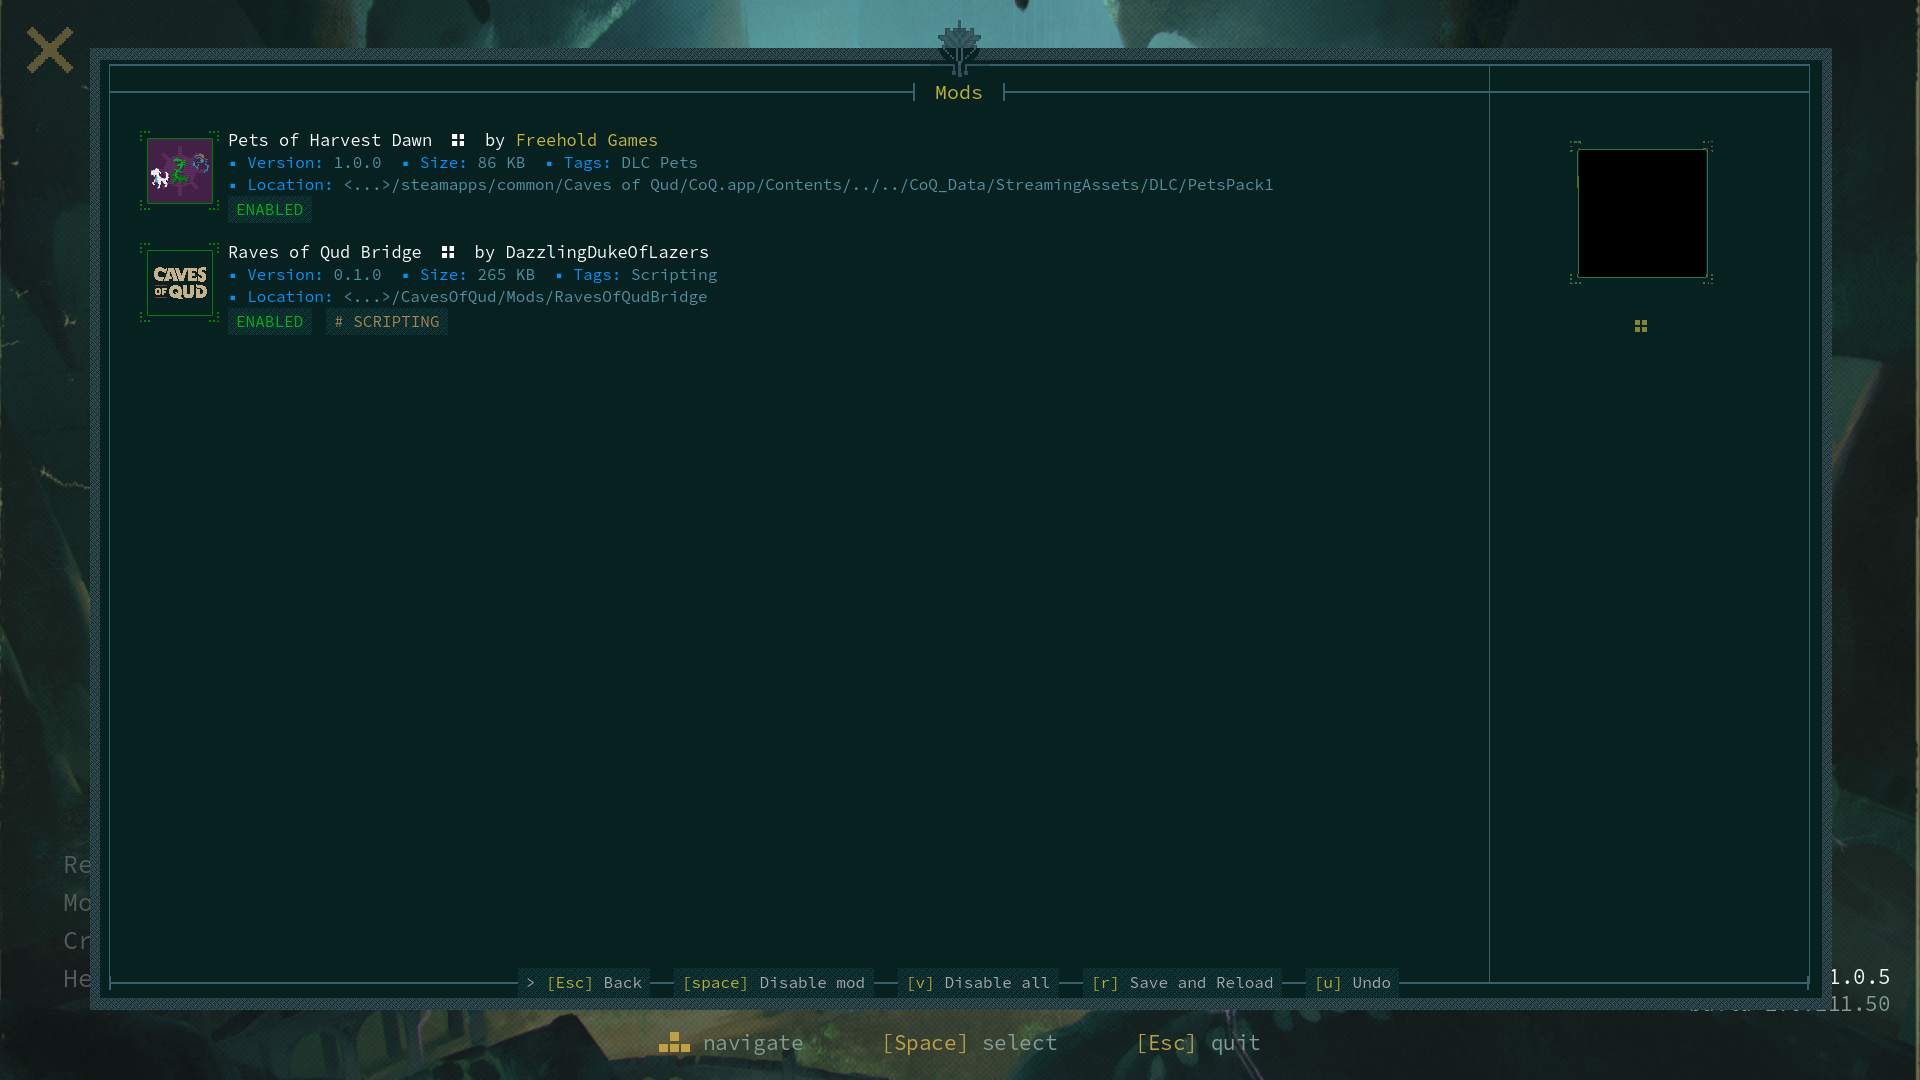
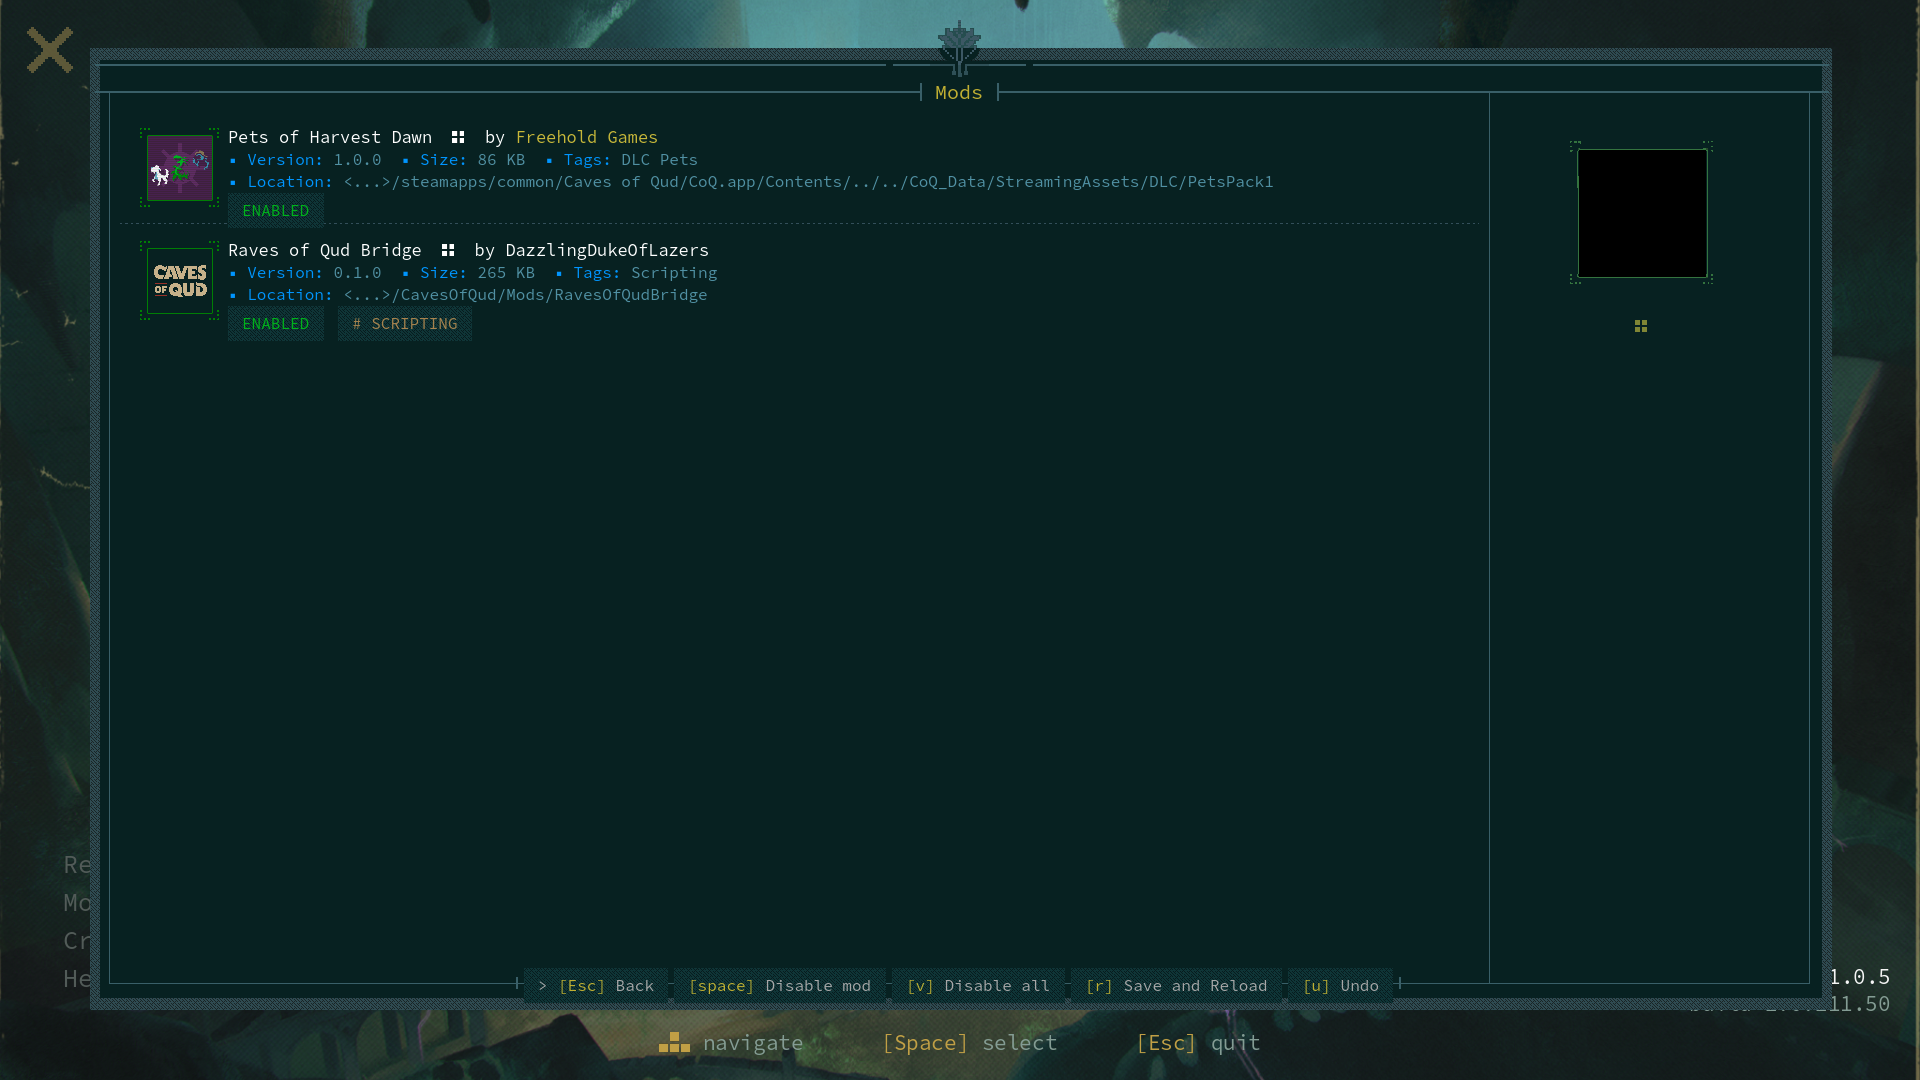
Mods container grid = Qud's exact table (Daniel's spec) + dotted row separators
The inner container is now Qud's real structure: horizontal lines span the FULL
inner width (5..1739, top line in 4 measured segments around the pictograph
ornaments) while the verticals (19/1399/1719) run only header-line -> command-bar
line and stop FREE — so the header strip is ONE cell spanning everything, the
content row is four columns [thin][list][pane][thin], and the bottom corners
match Qud (no bottom throughline). The command bar is a 1px line at real y983
with a PACKED chip group (sep 6, l/r padding 14, 30px tall) centred over it and
small tick terminals flanking the group — no line segments between chips.
Dotted separators between list rows (2on-3off-3on-3off, (58,89,101), row+101).
Verified numerically: chip group 524..1391 vs Qud 523..1396; row titles 131/244
exact both apps. Mods: 4.96/2.8%.

Changed region(s): [[0.0625, 0.1222, 0.4375, 0.3056], [0.25, 0.8861, 0.7188, 0.9472], [0.4688, 0.1528, 0.6562, 0.1833]]

diff --git a/reports/2026-08-03-menu-parity/scoreboard.md b/reports/2026-08-03-menu-parity/scoreboard.md
@@ -10,7 +10,7 @@ channel Δ>32. Playfield congruence for reference: mean-diff ≈ 2, hot ≈ 0%.
 | title   |  7.35 |  6.6% | layout aligns after the chromeless fix; remaining heat = wordmark x-offset, menu hover/selection styling, hint bar, version-line ("build …" extra in Raves) |
 | options | 15.80 |  4.8% | RAVES section now HIDDEN under --one-to-one (raves_solo passes it; 1:1 locked for the run) — remaining delta is pure layout: Raves is a narrow centred column + Save/Load preset bar; Qud is a full-width two-pane with left category rail |
 | records | 18.44 | 11.0% | different design generation: Raves = "◆ Records ◆" score-list + summary pane; Qud = ENDED RUNS entry stack with left rail (Ended Runs / Daily ×2 / Achievements) + per-entry delete |
-| mods    |  4.90 |  2.7% | **1:1 PASS DONE (2026-08-03)**: full Qud reproduction — panel geometry/lines/7×7 dither bands (phase-anchored tiles), pictograph, ┤Mods├ header, row anatomy (thumb frame+ticks, ⠿ glyph, ▪ key/values, `<...>` path elision, chip badges), fresh-open no-selection state, empty preview box, bottom command bar with > cursor. Exporter fixed: version NRE (XRL.Version struct), size round-half-up. Remaining: glyph AA + chip dither phase + title-screen residue (version corner/hint bar → title item) |
+| mods    |  4.96 |  2.8% | **1:1 PASS DONE (2026-08-03)**: full Qud reproduction — panel geometry/lines/7×7 dither bands (phase-anchored tiles), pictograph, ┤Mods├ header, row anatomy (thumb frame+ticks, ⠿ glyph, ▪ key/values, `<...>` path elision, chip badges), fresh-open no-selection state, empty preview box, bottom command bar with > cursor. Exporter fixed: version NRE (XRL.Version struct), size round-half-up. Remaining: glyph AA + chip dither phase + title-screen residue (version corner/hint bar → title item) |
 
 (First baseline had title 14.60/13.4% — a systemic ~28px offset from Raves' window
 title strip. Fixed at the source 2026-08-03: 1:1 runs CHROMELESS like Qud's
